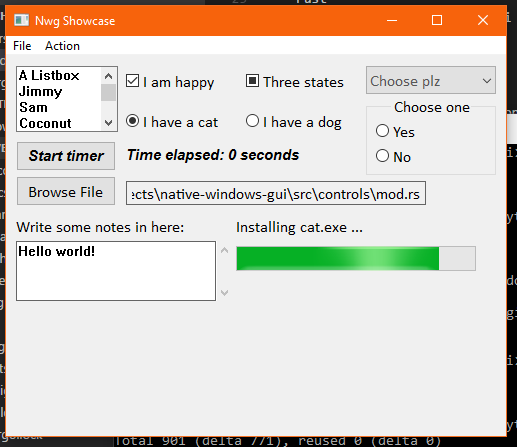
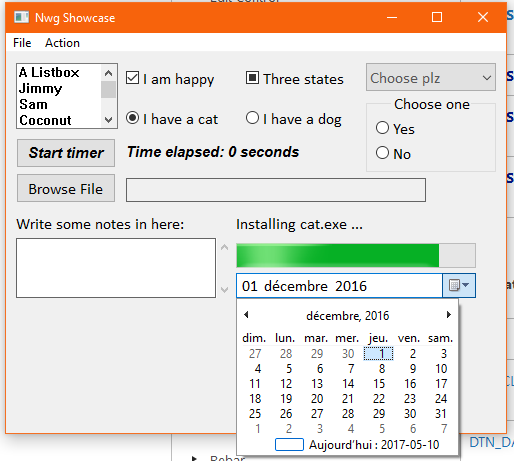
datetime picker event & new img

Changed region(s): [[0.0, 0.0, 1.0, 1.0], [0.4669, 0.2327, 0.6848, 0.2908]]

diff --git a/src/low/events.rs b/src/low/events.rs
@@ -32,6 +32,8 @@ use controls::{ControlType, AnyHandle, Timer};
 /// A magic number to identify the NWG subclass that dispatches events
 const EVENTS_DISPATCH_ID: UINT_PTR = 2465;
 
+// WARNING! This WHOLE section (from parse_listbox_command to parse_command) will be replaced with the events overhaul in NWG BETA2
+
 fn parse_listbox_command(id: u64, ncode: u32) -> Option<(u64, Event, EventArgs)> {
   use low::defs::{LBN_SELCHANGE, LBN_DBLCLK, LBN_SETFOCUS, LBN_KILLFOCUS};
 
@@ -72,6 +74,27 @@ fn parse_static_command(id: u64, ncode: u32) -> Option<(u64, Event, EventArgs)> 
   }
 }
 
+fn parse_datepicker_command(id: u64, ncode: u32) -> Option<(u64, Event, EventArgs)> {
+  use winapi::DTN_DATETIMECHANGE;
+  match ncode {
+    DTN_DATETIMECHANGE => {
+      Some((id, Event::DateChanged, EventArgs::None))
+    },
+    _ => None
+  }
+}
+
+/**
+  Parse the common controls notification passed through the `WM_COMMAND` message.
+*/
+#[inline(always)]
+fn parse_notify(id: u64, control_type: ControlType, w: WPARAM) -> Option<(u64, Event, EventArgs)> {
+  match control_type {
+    ControlType::DatePicker => parse_datepicker_command(id, w as u32),
+    _ => None
+  }
+}
+
 /**
   Parse the common controls notification passed through the `WM_COMMAND` message.
 */
@@ -85,6 +108,7 @@ fn parse_command(id: u64, control_type: ControlType, w: WPARAM) -> Option<(u64, 
     ControlType::Button => parse_button_command(id, ncode),
     ControlType::TextInput | ControlType::TextBox => parse_edit_command(id, ncode),
     ControlType::Label => parse_static_command(id, ncode),
+    ControlType::DatePicker => parse_datepicker_command(id, ncode),
     _ => None
   }
 }
@@ -98,7 +122,7 @@ unsafe extern "system" fn process_events<ID: Hash+Clone+'static>(hwnd: HWND, msg
   use user32::GetClientRect;
   use winapi::{WM_KEYDOWN, WM_KEYUP, WM_UNICHAR, WM_CHAR, UNICODE_NOCHAR, WM_MENUCOMMAND, WM_CLOSE, WM_LBUTTONUP, WM_LBUTTONDOWN, 
     WM_RBUTTONUP, WM_RBUTTONDOWN, WM_MBUTTONUP, WM_MBUTTONDOWN, WM_COMMAND, WM_TIMER, WM_MOVE, WM_SIZING, WM_EXITSIZEMOVE, WM_SIZE,
-    WM_PAINT, c_int, LOWORD, HIWORD, RECT};
+    WM_PAINT, WM_NOTIFY, c_int, LOWORD, HIWORD, RECT, NMHDR};
   use low::menu_helper::get_menu_id;
   use low::defs::{NWG_CUSTOM_MIN, NWG_CUSTOM_MAX};
 
@@ -122,6 +146,17 @@ unsafe extern "system" fn process_events<ID: Hash+Clone+'static>(hwnd: HWND, msg
         } else {
           None
         }
+      }
+    },
+    WM_NOTIFY => {
+      // WM_NOTIFY is the new WM_COMMAND for the new windows controls
+      let nmdr: &NMHDR = mem::transmute(l);
+      if let Some(id) = inner.inner_id_from_handle( &AnyHandle::HWND(nmdr.hwndFrom) ) {
+        
+        let control_type = (&mut *inner.controls.get(&id).expect("Could not find a control with with the specified type ID").as_ptr()).control_type();
+        parse_notify(id, control_type, nmdr.code as u64)
+      } else {
+        None
       }
     },
     WM_LBUTTONUP | WM_RBUTTONUP  | WM_MBUTTONUP => {

diff --git a/src/controls/datepicker.rs b/src/controls/datepicker.rs
@@ -82,7 +82,7 @@ impl<S: Clone+Into<String>, ID: Hash+Clone> ControlT<ID> for DatePickerT<S, ID> 
     fn type_id(&self) -> TypeId { TypeId::of::<DatePicker>() }
 
     fn events(&self) -> Vec<Event> {
-        vec![Event::Destroyed, Event::Moved, Event::Resized, Event::Raw]
+        vec![Event::Destroyed, Event::Moved, Event::Resized, Event::Raw, Event::DateChanged]
     }
 
     fn build(&self, ui: &Ui<ID>) -> Result<Box<Control>, Error> {

diff --git a/src/events.rs b/src/events.rs
@@ -66,6 +66,7 @@ pub enum Event {
     Focus,
     Tick,
     Triggered,
+    DateChanged
 }
 
 /**
